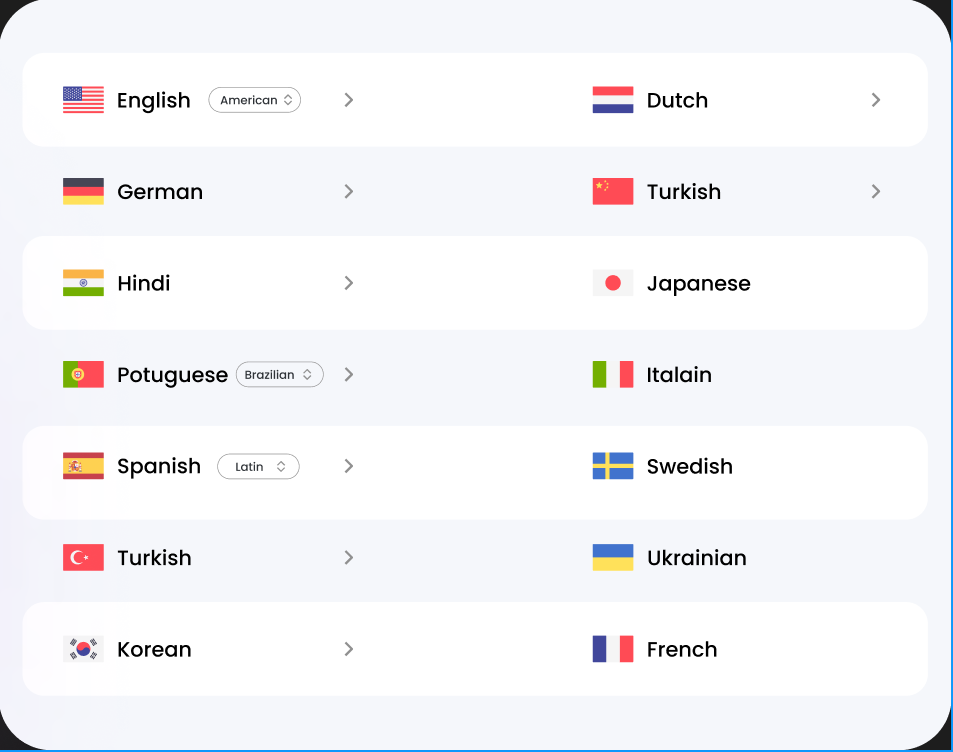
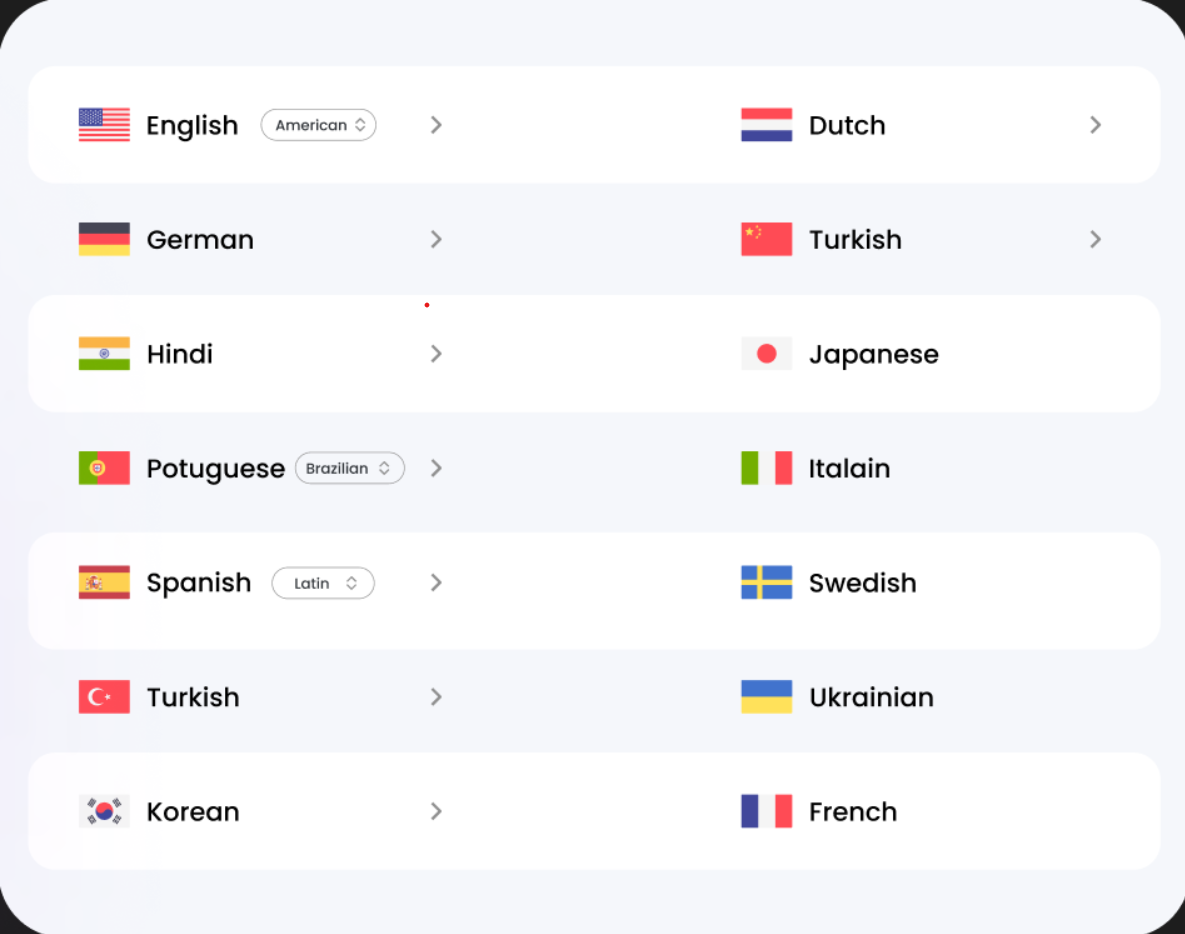
fix(ui): resolve mobile channel issues and AI launch section card/layout fixes

diff --git a/mvp/landing_site_new/app/(pages)/page.tsx b/mvp/landing_site_new/app/(pages)/page.tsx
@@ -65,7 +65,7 @@ export default function HomePage() {
             {/* Login - Hidden on small screens */}
             <a
               href="#"
-              className="login-link text-sm font-medium text-black hover:text-purple-600 transition hidden sm:inline-block"
+              className="login-link text-sm font-medium text-black hover:text-purple-600 transition hidden md:inline-block"
               onClick={(e) => {
                 e.preventDefault();
                 if (typeof window !== "undefined" && (window as any).openLoginModal) {
@@ -79,7 +79,7 @@ export default function HomePage() {
             {/* Get Started Button - hidden on mobile to save space */}
             <a
               href="#pricing"
-              className="cta-btn bg-gradient-to-br from-purple-600 to-pink-600 text-white font-semibold text-sm px-5 py-2.5 rounded-full hover:opacity-90 transition hidden sm:inline-flex"
+              className="cta-btn bg-gradient-to-br from-purple-600 to-pink-600 text-white font-semibold text-sm px-5 py-2.5 rounded-full hover:opacity-90 transition hidden md:inline-flex"
             >
               Get Started
             </a>
@@ -200,7 +200,7 @@ export default function HomePage() {
 
       {/* Hero Section */}
       <section className="mt-24 min-h-screen flex items-center pt-16 md:pt-0 relative">
-        <div className="max-w-7xl mx-auto px-4 sm:px-6 lg:px-8 py-12 md:py-20">
+        <div className="max-w-7xl mx-auto px-4 sm:px-6 lg:px-8 sm:py-12 md:py-20">
           <div className="grid lg:grid-cols-2 gap-8 lg:gap-12 items-center">
             <div className="space-y-6 md:space-y-8 text-center lg:text-left order-2 lg:order-1">
               <div className="inline-flex items-center space-x-2 bg-purple-900/50 backdrop-blur px-4 py-2 rounded-full shadow-md border border-purple-700 animate-fade-in">
@@ -228,9 +228,9 @@ export default function HomePage() {
                 </button>
                 <a
                   href="#how-it-works"
-                  className="relative inline-flex items-center justify-center p-[2px] rounded-full bg-gradient-to-r from-purple-600 via-pink-500 to-indigo-500"
+                  className="relative inline-flex items-center justify-center p-[2px] rounded-full bg-gradient-to-r from-purple-600 via-pink-500 to-indigo-500 w-full sm:w-auto"
                 >
-                  <span className="bg-white text-purple-700 px-6 sm:px-8 py-3 sm:py-4 rounded-full font-semibold text-base sm:text-lg flex items-center space-x-2 hover:bg-gray-100 transition">
+                  <span className="bg-white text-purple-700 px-6 sm:px-8 py-3 sm:py-4 rounded-full font-semibold text-base sm:text-lg flex items-center justify-center space-x-2 hover:bg-gray-100 transition w-full">
                     <svg className="w-5 h-5" fill="none" stroke="currentColor" viewBox="0 0 24 24">
                       <path strokeLinecap="round" strokeLinejoin="round" strokeWidth="2" d="M14.752 11.168l-3.197-2.132A1 1 0 0010 9.87v4.263a1 1 0 001.555.832l3.197-2.132a1 1 0 000-1.664z" />
                       <path strokeLinecap="round" strokeLinejoin="round" strokeWidth="2" d="M21 12a9 9 0 11-18 0 9 9 0 0118 0z" />
@@ -296,7 +296,7 @@ export default function HomePage() {
 
           {/* Mobile Version: Simple vertical/grid cards */}
           <div className="block lg:hidden">
-            <div className="grid grid-cols-3 sm:grid-cols-5 gap-6 sm:gap-8 max-w-3xl mx-auto">
+            <div className="grid grid-cols-2 sm:grid-cols-5 gap-6 sm:gap-8 max-w-3xl mx-auto">
               {/* EMAIL */}
               <div className="flex flex-col items-center">
                 <div className="channel-icon-box w-12 h-12 sm:w-16 sm:h-16">
@@ -345,7 +345,7 @@ export default function HomePage() {
               </div>
 
               {/* VOICE */}
-              <div className="flex flex-col items-center col-span-3 sm:col-span-1 order-first sm:order-none mb-6 sm:mb-0">
+              <div className="flex flex-col items-center col-span-2 sm:col-span-1 order-first sm:order-none mb-6 sm:mb-0">
                 <div className="channel-icon-box channel-voice-icon w-16 h-16 sm:w-20 sm:h-20">
                   <svg viewBox="0 0 40 28" fill="none" xmlns="http://www.w3.org/2000/svg">
                     <rect x="0" y="10" width="4" height="8" rx="2" fill="white" />
@@ -441,21 +441,22 @@ export default function HomePage() {
       </section>
 
       {/* Launch AI Voice Bot Section */}
-      <section className="w-full launch-section flex flex-col lg:flex-row items-stretch justify-center py-12 md:py-16 lg:py-24 px-4 sm:px-6">
-        <div className="launch-features w-full lg:w-[10%] flex flex-row lg:flex-col items-center lg:items-start justify-center gap-4 lg:gap-6 mb-8 lg:mb-0 flex-wrap">
-          <div className="feature-card w-36 sm:w-40 lg:w-auto">
-            <img className="w-12 sm:w-16 mx-auto" src={`${IMG}/online.png`} alt="Online Shopping Support" />
+    <section className="w-full launch-section flex flex-col lg:flex-row items-stretch justify-center py-12 md:py-16 lg:py-24 px-4 sm:px-6">
+        <div className="launch-features w-full lg:w-[10%] grid grid-cols-2 lg:grid-cols-1 items-start justify-items-center gap-4 lg:gap-6 mb-8 lg:mb-0">
+          <div className="feature-card w-full">
+            <img className="w-12 sm:w-16 mx-auto"  style={{ width: '48px', height: '48px', objectFit: 'contain' }}
+      src={`${IMG}/online.png`} alt="Online Shopping Support" />
             <span className="text-black text-xs sm:text-sm text-center">Online Shopping Support</span>
           </div>
-          <div className="feature-card w-36 sm:w-40 lg:w-auto">
+          <div className="feature-card w-full">
             <img className="w-12 sm:w-16 mx-auto" src={`${IMG}/order.png`} alt="Order Management" />
             <span className="text-black text-xs sm:text-sm text-center">Order Management</span>
           </div>
-          <div className="feature-card w-36 sm:w-40 lg:w-auto">
+          <div className="feature-card w-full">
             <img className="w-12 sm:w-16 mx-auto" src={`${IMG}/appointment.png`} alt="Appointment Scheduling" />
             <span className="text-black text-xs sm:text-sm text-center">Appointment Scheduling</span>
           </div>
-          <div className="feature-card w-36 sm:w-40 lg:w-auto">
+          <div className="feature-card w-full">
             <img className="w-12 sm:w-16 mx-auto" src={`${IMG}/bank.png`} alt="Banking Assistance" />
             <span className="text-black text-xs sm:text-sm text-center">Banking Assistance</span>
           </div>

diff --git a/mvp/landing_site_new/app/styles.css b/mvp/landing_site_new/app/styles.css
@@ -268,7 +268,7 @@ body {
 
 .channel-section {
     position: relative;
-    padding: 80px 0;
+    /* padding: 80px 0; */
     overflow: hidden;
 }
 .channel-section::before {
@@ -341,7 +341,13 @@ body {
 .channel-icon-box svg { width: 36px; height: 36px; }
 .channel-label {
     font-size: 0.72rem; font-weight: 700;
-    letter-spacing: 0.08em; color: #1a1a2e; text-align: center;
+    letter-spacing: 0.08em; color: white; text-align: center;
+}
+
+@media (min-width: 1024px) {
+  .channel-label {
+    color: #1a1a2e;
+  }
 }
 
 /* Positions */
@@ -381,7 +387,14 @@ body {
 /* Launch AI Voice Section */
 
 .launch-section {
-    padding: 120px 0;
+    padding: 10px;
+    padding-bottom: 30px;
+}
+
+@media (min-width: 1024px) {
+  .launch-section {
+    padding-bottom: 120px;
+  }
 }
 
 .launch-wrapper {
@@ -396,19 +409,38 @@ body {
 
 /* LEFT FEATURE CARDS */
 .launch-features {
+  display: grid;
+  grid-template-columns: repeat(2, 1fr); /* 2 cols on mobile/tablet */
+  gap: 10px;
+}
+
+@media (min-width: 1024px) {
+  .launch-features {
     display: flex;
     flex-direction: column;
     gap: 10px;
+    width: 10%;
+  }
 }
 
 .feature-card {
-    background: #ffffff;
-    padding: 8px 10px;
-    border-radius: 18px;
-    font-weight: 700;
-    font-size: 16px;
-    text-align: center;
-    box-shadow: 0 6px 10px rgba(255,255,255,0.25);
+  background: #ffffff;
+  padding: 8px 10px;
+  border-radius: 18px;
+  font-weight: 700;
+  font-size: 16px;
+  text-align: center;
+  box-shadow: 0 6px 10px rgba(255, 255, 255, 0.25);
+
+  /* Equal sizing — key fix */
+  display: flex;
+  flex-direction: column;
+  align-items: center;
+  justify-content: center;
+  gap: 6px;
+  min-height: 120px; /* gives all cards equal height */
+  width: 100%;       /* fills grid column equally */
+  box-sizing: border-box;
 }
 
 
@@ -435,5 +467,3 @@ body {
     width: 100%;
     opacity: 0.9;
 }
-
-
